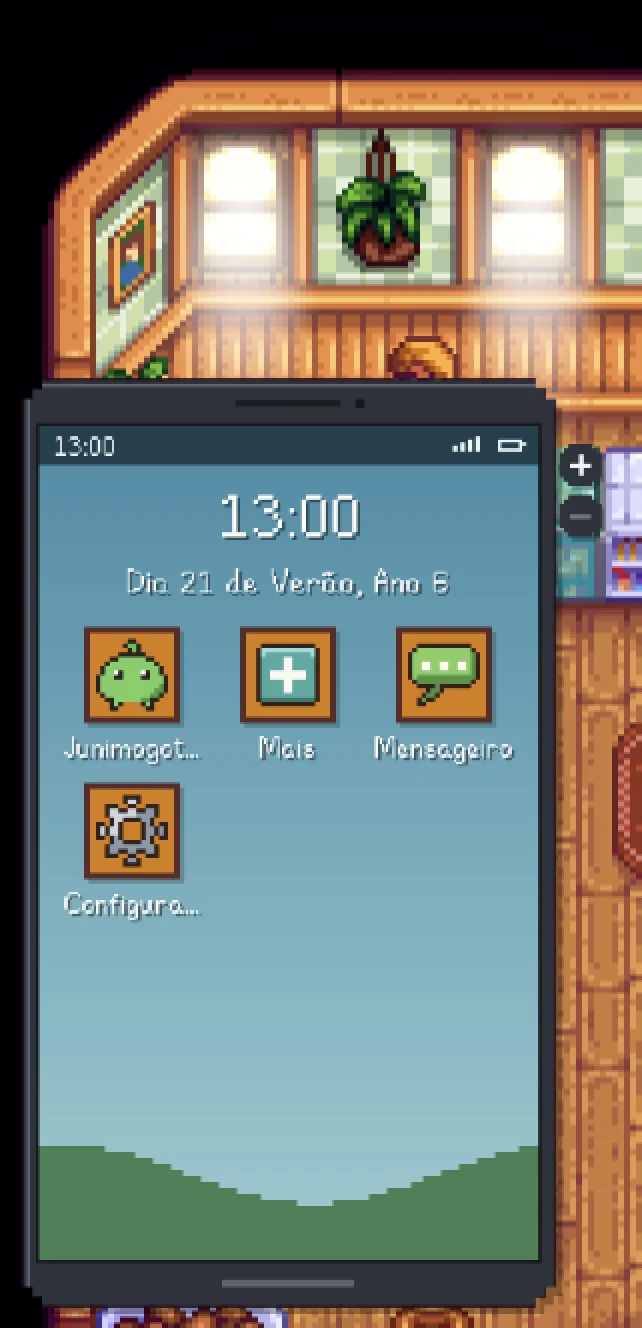
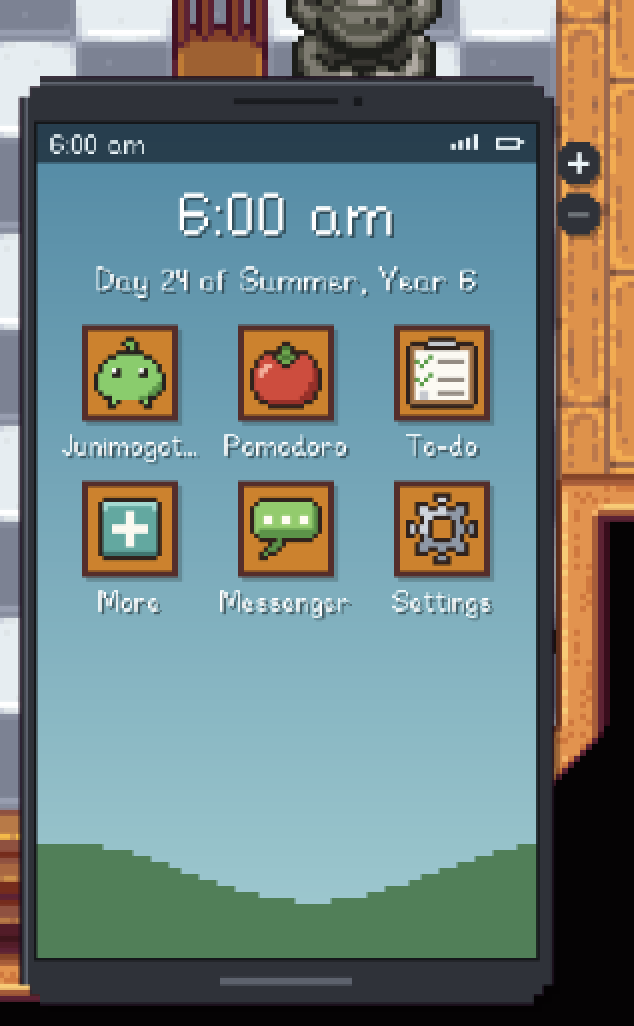
Changelog 1.7.2: moradores sujos de bomba e print novo do celular

diff --git a/changelog/1.7.0/es.html b/changelog/1.7.0/es.html
@@ -23,7 +23,7 @@
       <h3>Más apps en el móvil</h3>
     </div>
     <figure class="shot" style="max-width:300px">
-      <img src="assets/prints/1.7/celular-tela-inicial.webp" width="642" height="1328" loading="lazy" alt="La pantalla de inicio del móvil con la hora, la fecha y las apps Junimogotchi, Más, Mensajero y Ajustes.">
+      <img src="assets/prints/1.7/celular-tela-inicial.webp" width="634" height="1026" loading="lazy" alt="La pantalla de inicio del móvil con la hora, la fecha y las apps Junimogotchi, Pomodoro, Tareas, Más, Mensajero y Ajustes.">
       <figcaption>La pantalla de inicio del móvil.</figcaption>
     </figure>
     <ul class="points">
@@ -92,6 +92,21 @@
     <ul class="points">
       <li>Échale agua a un vecino y vendrá a preguntarte por qué. Fuera del verano queda mojado y molesto, y en invierno el agua está helada. En verano, según cómo sea, hasta puede disfrutarlo.</li>
       <li>Quien solo miró lo encuentra gracioso y lo recuerda. También vale con la regadera cargada, en todas las casillas que moja.</li>
+    </ul>
+  </section>
+
+  <section class="feature" id="v1-7-2-sujos">
+    <div class="feature-head">
+      <span class="tag">Nuevo</span>
+      <h3>Vecinos llenos de hollín</h3>
+      <p class="lead">¿Explotó una bomba cerca de un vecino? Queda cubierto de hollín, en el sprite y en el retrato, durante unos 30 segundos. Después se limpia y suelta un “¡Uf!”.</p>
+    </div>
+    <figure class="shot">
+      <img src="assets/prints/1.7/moradores-sujos.webp" width="912" height="272" loading="lazy" alt="Abigail y Pierre cubiertos de hollín, en el retrato y en el sprite." style="image-rendering:pixelated">
+      <figcaption>Abigail y Pierre después de una bomba, en el retrato y en el sprite.</figcaption>
+    </figure>
+    <ul class="points">
+      <li>Funciona con casi todos los vecinos del juego, incluso con la ropa de playa y de invierno.</li>
     </ul>
   </section>
 

diff --git a/changelog/1.7.0/en.html b/changelog/1.7.0/en.html
@@ -23,7 +23,7 @@
       <h3>More apps on the phone</h3>
     </div>
     <figure class="shot" style="max-width:300px">
-      <img src="assets/prints/1.7/celular-tela-inicial.webp" width="642" height="1328" loading="lazy" alt="The phone's home screen with the time, the date and the Junimogotchi, More, Messenger and Settings apps.">
+      <img src="assets/prints/1.7/celular-tela-inicial.webp" width="634" height="1026" loading="lazy" alt="The phone's home screen with the time, the date and the Junimogotchi, Pomodoro, To-do, More, Messenger and Settings apps.">
       <figcaption>The phone's home screen.</figcaption>
     </figure>
     <ul class="points">
@@ -92,6 +92,21 @@
     <ul class="points">
       <li>Pour your watering can over a villager and they come over to ask why. Out of summer they're wet and annoyed, and in winter the water is freezing. In summer, depending on who they are, they may even enjoy it.</li>
       <li>Villagers who only watched find it funny and remember it. It counts for a charged watering can too, on every tile it waters.</li>
+    </ul>
+  </section>
+
+  <section class="feature" id="v1-7-2-sujos">
+    <div class="feature-head">
+      <span class="tag">New</span>
+      <h3>Villagers covered in soot</h3>
+      <p class="lead">Set off a bomb near a villager and they end up covered in soot, on their sprite and their portrait, for about 30 seconds. Then they clean up with a “Phew!”.</p>
+    </div>
+    <figure class="shot">
+      <img src="assets/prints/1.7/moradores-sujos.webp" width="912" height="272" loading="lazy" alt="Abigail and Pierre covered in soot, on their portraits and sprites." style="image-rendering:pixelated">
+      <figcaption>Abigail and Pierre after a bomb, portrait and sprite.</figcaption>
+    </figure>
+    <ul class="points">
+      <li>It works for almost every villager in the game, beach and winter outfits included.</li>
     </ul>
   </section>
 

diff --git a/changelog/1.7.0/pt-BR.html b/changelog/1.7.0/pt-BR.html
@@ -23,7 +23,7 @@
       <h3>Mais apps no celular</h3>
     </div>
     <figure class="shot" style="max-width:300px">
-      <img src="assets/prints/1.7/celular-tela-inicial.webp" width="642" height="1328" loading="lazy" alt="A tela inicial do celular com a hora, a data e os apps Junimogotchi, Mais, Mensageiro e Configurações.">
+      <img src="assets/prints/1.7/celular-tela-inicial.webp" width="634" height="1026" loading="lazy" alt="A tela inicial do celular com a hora, a data e os apps Junimogotchi, Pomodoro, Tarefas, Mais, Mensageiro e Configurações.">
       <figcaption>A tela inicial do celular.</figcaption>
     </figure>
     <ul class="points">
@@ -92,6 +92,21 @@
     <ul class="points">
       <li>Jogue água num morador e ele vem perguntar por quê. Fora do verão ele fica molhado e irritado, e no inverno a água está gelada. No verão, dependendo do jeito dele, pode até gostar.</li>
       <li>Quem só viu acha graça e lembra. Vale também pro regador carregado, em todos os tiles que ele molha.</li>
+    </ul>
+  </section>
+
+  <section class="feature" id="v1-7-2-sujos">
+    <div class="feature-head">
+      <span class="tag">Novo</span>
+      <h3>Moradores sujos de bomba</h3>
+      <p class="lead">Explodiu uma bomba perto de um morador? Ele fica coberto de fuligem, no sprite e no retrato, por uns 30 segundos. Depois se limpa e solta um “Ufa!”.</p>
+    </div>
+    <figure class="shot">
+      <img src="assets/prints/1.7/moradores-sujos.webp" width="912" height="272" loading="lazy" alt="A Abigail e o Pierre cobertos de fuligem, no retrato e no sprite." style="image-rendering:pixelated">
+      <figcaption>A Abigail e o Pierre depois de uma bomba, no retrato e no sprite.</figcaption>
+    </figure>
+    <ul class="points">
+      <li>Vale pra quase todos os moradores do jogo, inclusive com as roupas de praia e de inverno.</li>
     </ul>
   </section>
 
